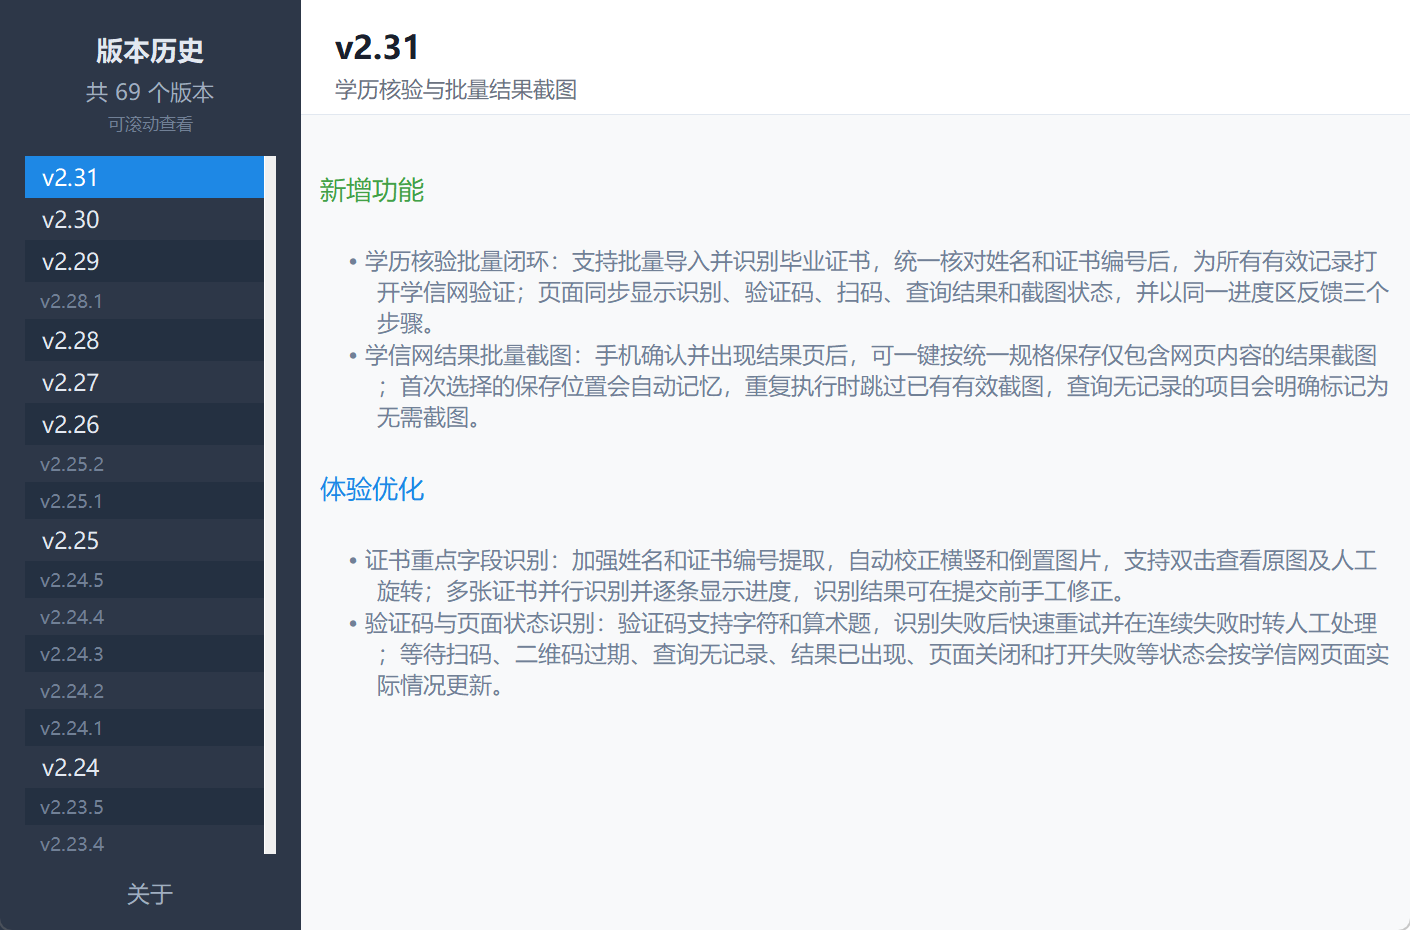
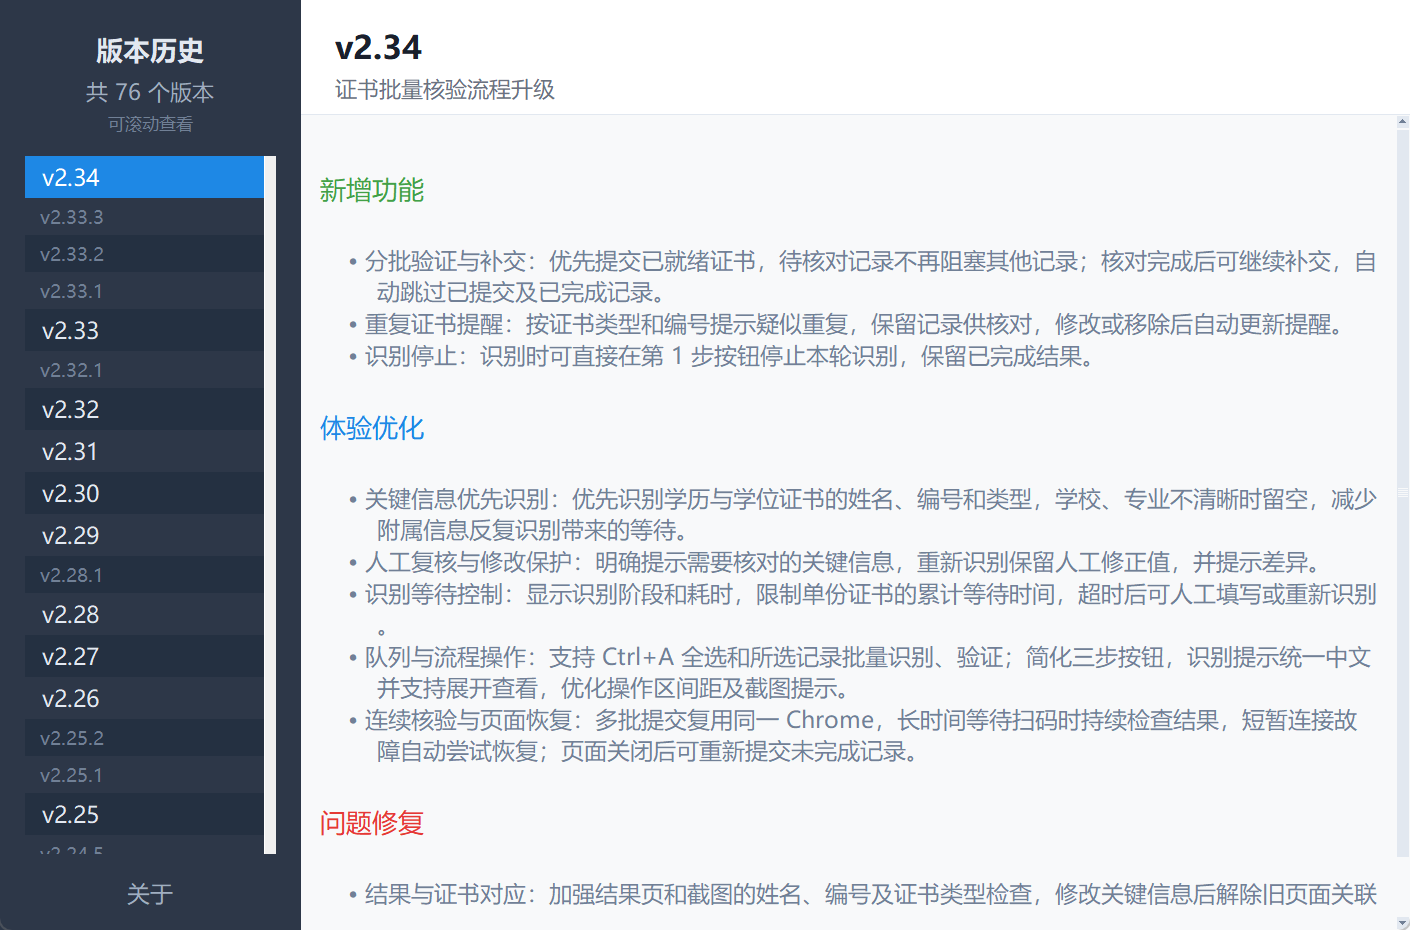
docs: 更新 v2.34 图文操作说明与演示截图
补齐证书分批验证、人工核对、停止识别、结果截图和模型图片能力说明，同步当前界面截图。

diff --git a/docs/assets/user-guide/generate_user_guide_screenshots.py b/docs/assets/user-guide/generate_user_guide_screenshots.py
@@ -441,6 +441,28 @@ def main() -> None:
     capture_widget(root, "06-stats.png")
 
     app.show_page_education()
+    # Let lazy page creation finish before populating synthetic queue rows.
+    capture_widget(root, "09-education.png")
+    for index, (certificate_type, status) in enumerate(
+        (("education", "已识别"), ("degree", "待人工确认"), ("education", "待识别")),
+        start=1,
+    ):
+        item_id = f"guide-certificate-{index}"
+        app.education_items[item_id] = {
+            "path": str(OUT_DIR / f"演示证书{index}.png"),
+            "name": f"演示人员{index}" if index < 3 else "",
+            "certificate_number": f"DEMO2026091800{index}" if index < 3 else "",
+            "certificate_type": certificate_type,
+            "status": status,
+            "school": "",
+            "major": "",
+            "warnings": "姓名需人工核对" if index == 2 else "",
+            "critical_conflicts": ("姓名需人工核对",) if index == 2 else (),
+        }
+        app.education_queue_tree.insert("", "end", iid=item_id)
+        app._update_education_queue_row(item_id)
+    app._refresh_education_queue_summary()
+    app.education_canvas.yview_moveto(0.0)
     capture_widget(root, "09-education.png")
 
     app.show_changelog()
@@ -452,13 +474,13 @@ def main() -> None:
         root,
         {
             "current": gui_main.__version__,
-            "latest": "2.31",
+            "latest": f"{gui_main.__version__}.1",
             "update_type": "version",
             "changelog_body": (
                 "### 新增功能\n\n"
-                "- 新增候选人处理能力。\n\n"
+                "- 此处展示新版本功能说明（演示内容）。\n\n"
                 "### 体验优化\n\n"
-                "- 优化候选人处理流程和界面提示。"
+                "- 下载完成后，请阅读实际升级内容再确认安装。"
             ),
             "release_info": {"body": ""},
             "download_url": "https://example.invalid/BOSS_ResumeFilter.exe",
